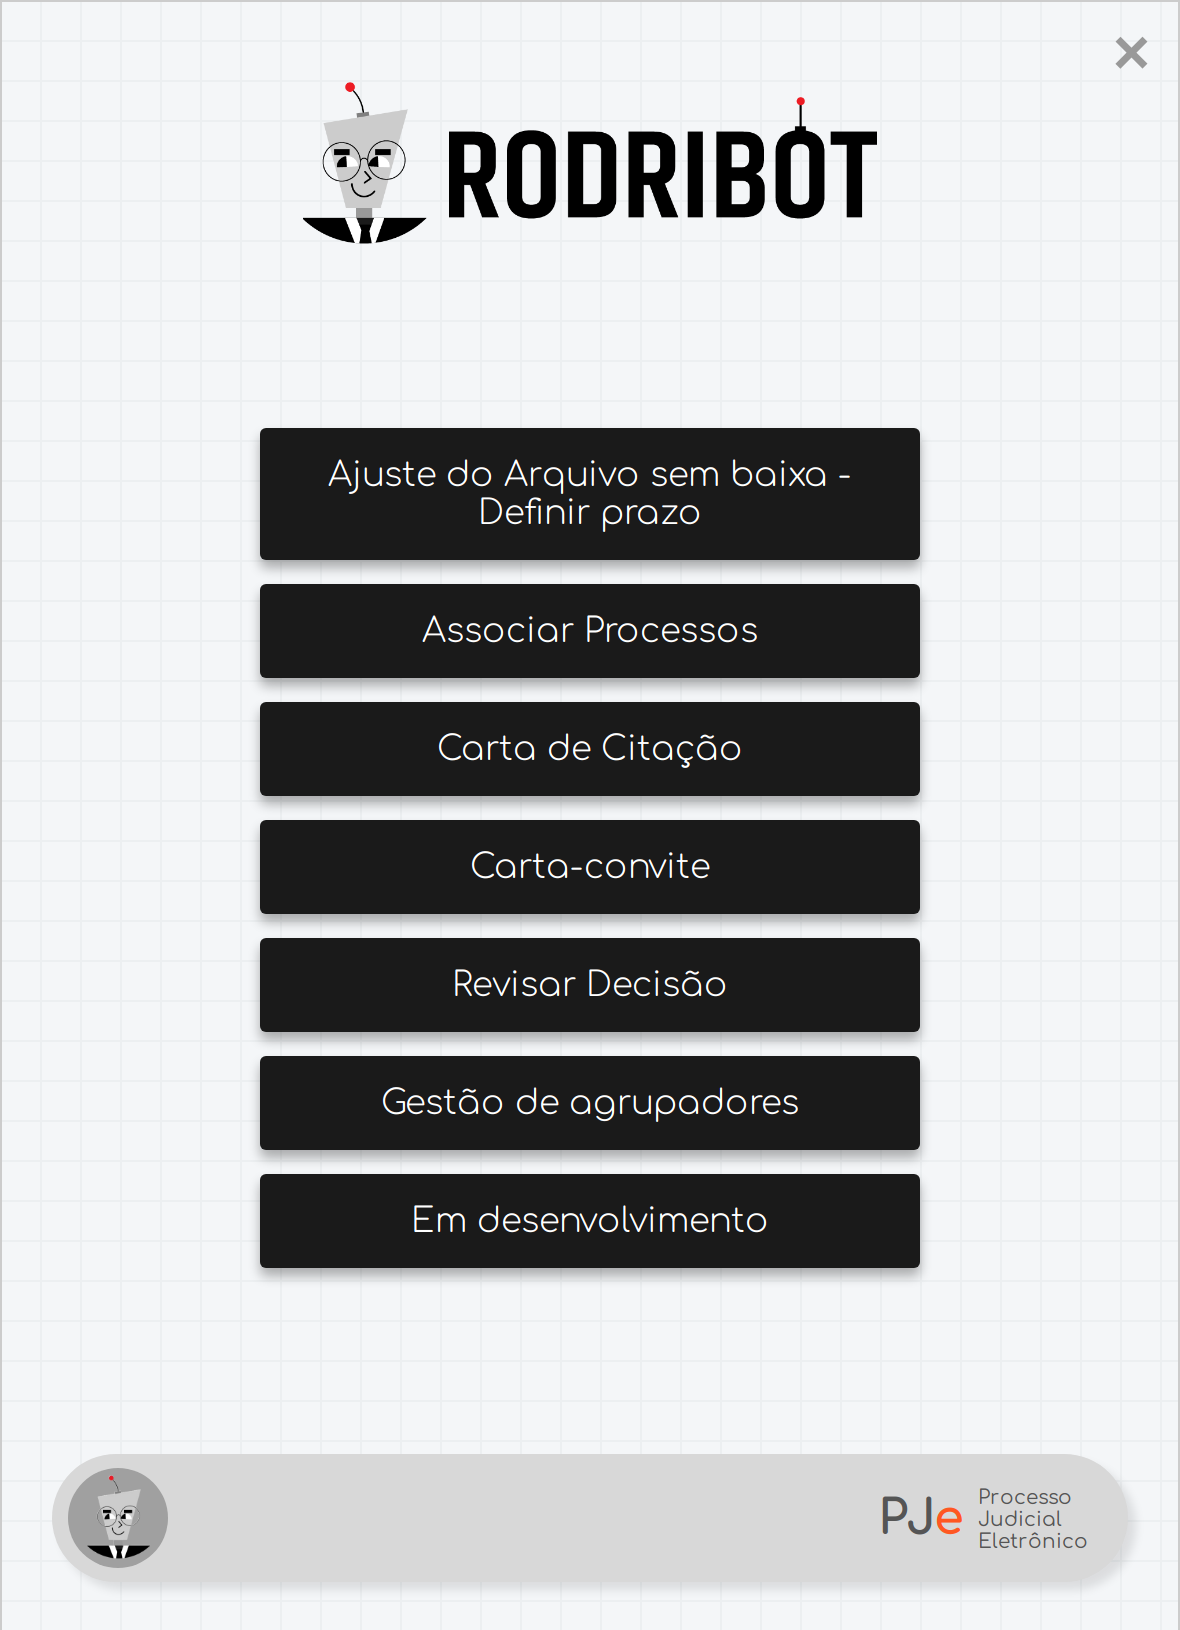
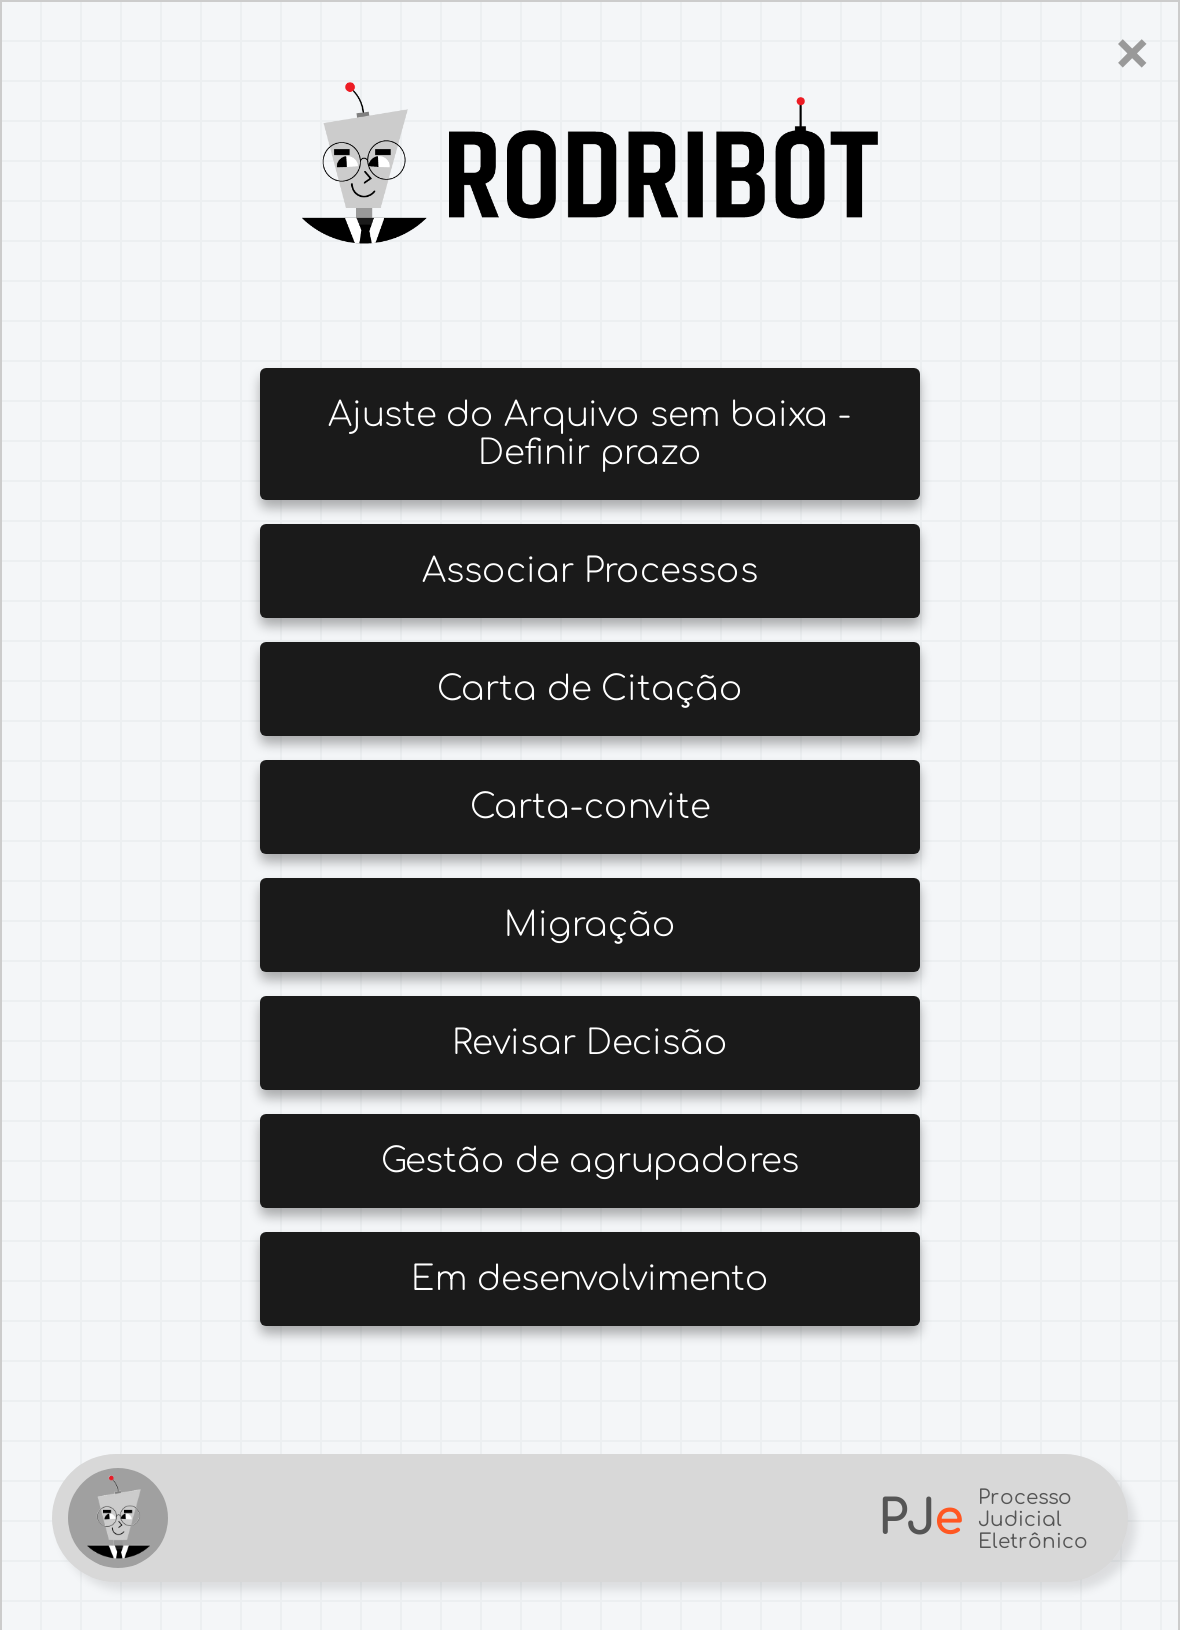
Update Rodribot to 1.1.1
The flow-selector menu moved from pywebview to tkinter after Windows 11's
Smart App Control blocked pywebview's .NET runtime, and the new Migração
workflow moves cases to PJe2X from a spreadsheet. Swap pywebview for
tkinter (and add openpyxl) in the stacks, describe the migration and the
menu rewrite, and re-render the four menu shots from the 1.1.1 flow list.

Claude-Session: https://claude.ai/code/session_01KhKh89Z81PyMrqNnh7TLsP

Changed region(s): [[0.2136, 0.2147, 0.7932, 0.8282], [0.8237, 0.9202, 0.9153, 0.9509]]

diff --git a/app/rodribot/page.tsx b/app/rodribot/page.tsx
@@ -9,9 +9,9 @@ export const metadata: Metadata = {
     'A tour of Rodribot, an RPA bot that automates repetitive clerical workflows in Brazil’s PJe judicial system.',
 };
 
-const flow = ['Pick a workflow', 'Open Chrome', 'Log in to PJe', 'Work through each case', 'Log every step'];
+const flow = ['Pick a workflow', 'Open the browser', 'Log in to PJe', 'Work through each case', 'Log every step'];
 
-const stack = ['Python', 'Playwright', 'pywebview (WebView2)', 'PyInstaller', 'python-dotenv', 'rich'];
+const stack = ['Python', 'Playwright', 'tkinter', 'PyInstaller', 'openpyxl', 'python-dotenv', 'rich'];
 
 const facts = [
   { value: '20+', label: 'court workflows automated' },
@@ -23,7 +23,7 @@ const screens = [
   {
     image: '/rodribot/main.png',
     title: 'One menu for every workflow',
-    text: 'Rodribot opens a small frameless window with the workflows it can run. Picking one starts the automation and the menu closes itself.',
+    text: 'Rodribot opens a small frameless window with the workflows it can run, including Migração, which reads a spreadsheet of case numbers and moves each case to PJe2X. Picking one starts the automation and the menu closes itself.',
   },
   {
     image: '/rodribot/folder.png',
@@ -33,7 +33,7 @@ const screens = [
   {
     image: '/rodribot/starting.png',
     title: 'Starting a run',
-    text: 'The chosen button turns green and the window fades out. Python receives the choice, opens Chrome through Playwright and runs the workflow step by step inside PJe.',
+    text: 'The chosen button turns green and the window fades out. Rodribot then opens Chrome through Playwright (Firefox for the migration) and runs the workflow step by step inside PJe.',
   },
   {
     image: '/rodribot/unavailable.png',
@@ -116,6 +116,12 @@ export default function RodribotPage() {
               Operators stay in control: a background thread checks a remote switch, and turning it off closes the
               browser right away. Every run writes a log, and the whole bot ships as a standalone Windows app built
               with PyInstaller, so court staff can run it without installing Python.
+            </p>
+            <p>
+              When Windows 11&apos;s Smart App Control started blocking the .NET library behind the old pywebview menu,
+              I rebuilt the menu in tkinter, which ships with Python. The build renders the original HTML menu in
+              Chrome and the tkinter window reuses those images, so it still looks exactly like the screens below. The
+              build also leaves out unused packages like numpy, whose unsigned DLLs would get blocked too.
             </p>
           </div>
         </section>

diff --git a/data/portfolio.ts b/data/portfolio.ts
@@ -66,10 +66,10 @@ export const projects: Project[] = [
     id: "3",
     title: "Rodribot",
     description:
-      "Legal-process automation (RPA) I built from scratch during my internship. It drives 20+ repetitive clerical workflows in Brazil's PJe judicial system, from case triage to issuing citations, with resilient browser automation and a remote kill switch, and ships as a standalone Windows app. It enabled the team's migration to the new PJe2X. Private, closed-source project.",
+      "Legal-process automation (RPA) I built from scratch during my internship. It drives 20+ repetitive clerical workflows in Brazil's PJe judicial system, from case triage to issuing citations, with resilient browser automation and a remote kill switch, and ships as a standalone Windows app. It enabled the team's migration to the new PJe2X, moving cases over straight from a spreadsheet. Private, closed-source project.",
     category: "Automation (RPA)",
     image: "/rodribot.png",
-    technologies: ["Python", "Playwright", "pywebview", "PyInstaller"],
+    technologies: ["Python", "Playwright", "tkinter", "PyInstaller"],
     link: "/rodribot",
     featured: true,
   },
